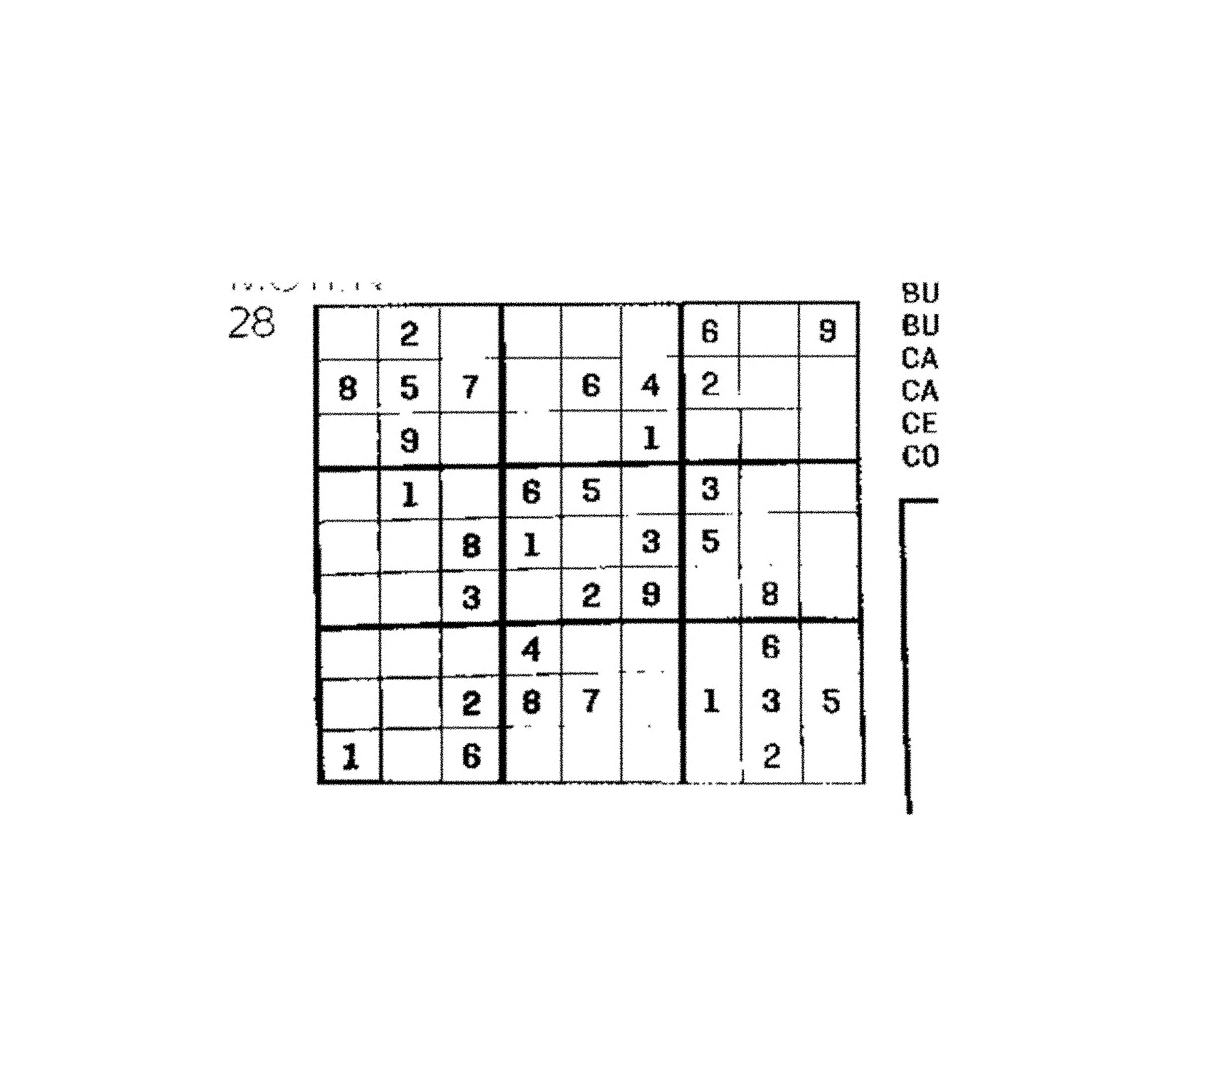
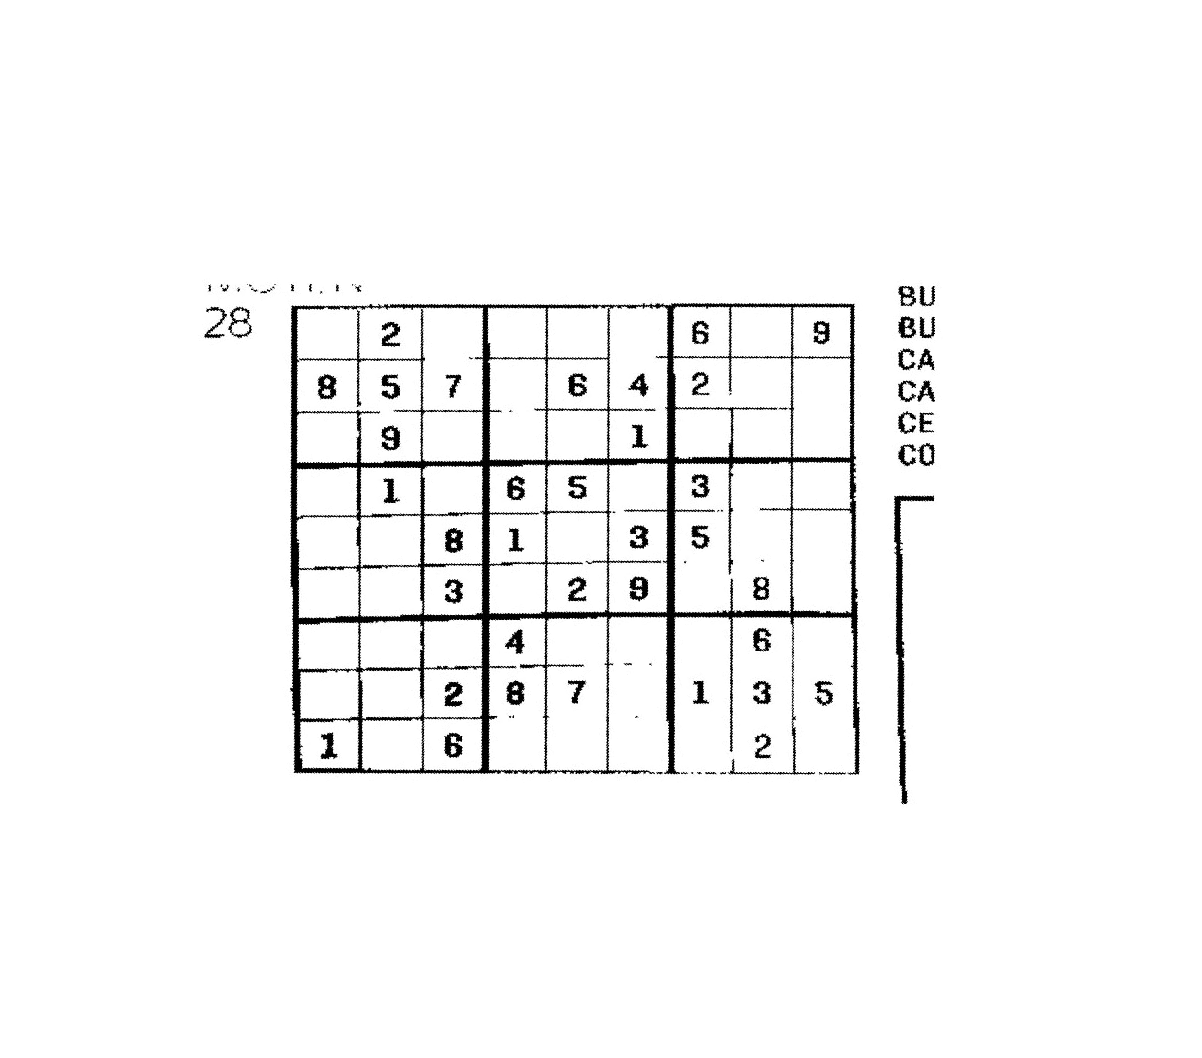
ta mère

Changed region(s): [[0.1847, 0.2495, 0.8003, 0.7486]]

diff --git a/Pretreat/grayscale.c b/Pretreat/grayscale.c
@@ -1,70 +1,9 @@
 #include <err.h>
 #include "SDL/SDL.h"
 #include "SDL/SDL_image.h"
-#include "pixel_operations.h"
+#include "../tool/pixel_operations.h"
+#include "../tool/tool_image.h"
 #include "tresholding.h"
-
-void init_sdl()
-{
-    // Init only the video part.
-    // If it fails, die with an error message.
-    if(SDL_Init(SDL_INIT_VIDEO) == -1)
-        errx(1,"Could not initialize SDL: %s.\n", SDL_GetError());
-}
-
-SDL_Surface* display_image(SDL_Surface *img)
-{
-    SDL_Surface *screen;
-
-    // Set the window to the same size as the image
-    screen = SDL_SetVideoMode(img->w, img->h, 0, SDL_SWSURFACE|SDL_ANYFORMAT);
-    if (screen == NULL)
-    {
-        // error management
-        errx(1, "Couldn't set %dx%d video mode: %s\n",
-                img->w, img->h, SDL_GetError());
-    }
-
-    // Blit onto the screen surface
-    if(SDL_BlitSurface(img, NULL, screen, NULL) < 0)
-        warnx("BlitSurface error: %s\n", SDL_GetError());
-
-    // Update the screen
-    SDL_UpdateRect(screen, 0, 0, img->w, img->h);
-
-    // return the screen for further uses
-    return screen;
-}
-
-SDL_Surface* load_image(char *path)
-{
-    SDL_Surface *img;
-
-    // Load an image using SDL_image with format detection.
-    // If it fails, die with an error message.
-    img = IMG_Load(path);
-    if (!img)
-        errx(3, "can't load %s: %s", path, IMG_GetError());
-
-    return img;
-}
-
-void wait_for_keypressed()
-{
-    SDL_Event event;
-
-    // Wait for a key to be down.
-    do
-    {
-        SDL_PollEvent(&event);
-    } while(event.type != SDL_KEYDOWN);
-
-    // Wait for a key to be up.
-    do
-    {
-        SDL_PollEvent(&event);
-    } while(event.type != SDL_KEYUP);
-}
 
 void SDL_FreeSurface(SDL_Surface *surface);
 

diff --git a/rotationAuto/main.c b/rotationAuto/main.c
@@ -11,13 +11,19 @@
 #include "../tool/pixel_operations.h"
 #include "rotationAuto.h"
 
-int main()                                                                      
+int main(int argc, char** argv)                                                                      
 {                                                                               
   /*                                                                            
     param : RotAndCut(name, sens);                                              
     sens = 1  : left rotation                                                   
     sens = -1 : right rotation                                                  
-  */                                                                            
-                                                                                
-  RotAndCut("image_torotate1.jpg", 1);                                         
-}    
+  */
+  if(argc >= 1)
+    {
+      if(!strcmp(argv[1], "1"))
+	RotAndCut("image_torotate1.jpg", 1);
+      
+      if(!strcmp(argv[1], "-1"))
+	RotAndCut("image_torotate2.jpg", -1);     
+    }    
+}

diff --git a/Run/run.c b/Run/run.c
@@ -22,13 +22,13 @@ void Run(char filename[])
   grayscale(filename); //Binarisation image
 
   
-  RotAndCut("image_bin.jpg",-1);
+  RotAndCut("image_torotate1.jpg",1);
   
   //int mat[9][9] = RecognizeDigit("Cases");
 
   typedef int Matrice[9][9];
 
-  Matrice mat2 =
+  /*Matrice mat2 =
     {
      {0,2,0,0,0,0,6,0,9},
      {8,5,7,0,6,4,2,0,0},
@@ -39,6 +39,19 @@ void Run(char filename[])
      {0,0,0,4,0,0,0,6,0},
      {0,0,2,8,7,0,1,3,5},
      {1,0,6,0,0,0,0,2,0},
+    };*/
+
+  Matrice mat3 =
+    {
+     {0,0,0,0,0,4,5,8,0},
+     {0,0,0,7,2,1,0,0,3},
+     {4,0,3,0,0,0,0,0,0},
+     {2,1,0,0,6,7,0,0,4},
+     {0,7,0,0,0,0,2,0,0},
+     {6,3,0,0,4,9,0,0,1},
+     {3,0,6,0,0,0,0,0,0},
+     {0,0,0,1,5,8,0,0,6},
+     {0,0,0,0,0,6,9,5,0},
     };
     
   /*
@@ -49,9 +62,9 @@ void Run(char filename[])
     }
   */
   
-  solve(mat2);
+  solve(mat3);
 
-  drawSudoku(mat2,"SudokuSolve",5);
+  drawSudoku(mat3,"SudokuSolve",8);
   
   
 }

diff --git a/GridCutout/griddetect.c b/GridCutout/griddetect.c
@@ -38,7 +38,7 @@ void MakeHisto(SDL_Surface* image, int hCols[], int hRows[])
 	      if(sum > max)
 		max = sum;
 	      sum = 0;
-	    }
+	      }
 	}
       if(max > (width / 4)) //Detection cols
 	  hCols[x] = max;
@@ -64,7 +64,7 @@ void MakeHisto(SDL_Surface* image, int hCols[], int hRows[])
 	      if(sum > max)
 		max = sum;
 	      sum = 0;
-	    }
+	      }
 	}
       if(max > (height / 4)) //Detection rows
 	hRows[y] = max;

diff --git a/Pretreat/tresholding.c b/Pretreat/tresholding.c
@@ -1,7 +1,7 @@
 #include <err.h>
 #include "SDL/SDL.h"
 #include "SDL/SDL_image.h"
-#include "pixel_operations.h"
+#include "../tool/pixel_operations.h"
 
 //Returns the histogram of the pixel values
 Uint8* histogram(SDL_Surface *img)

diff --git a/rotationAuto/rotationAuto.c b/rotationAuto/rotationAuto.c
@@ -31,6 +31,10 @@ void RotAndCut(char filename[], int sens)
   
   image = load_image(filename);
   image2 = image;
+
+  display_image(image);
+
+  wait_for_keypressed();
   
   int width = image->w;
   int height = image->h;

diff --git a/Pretreat/median.c b/Pretreat/median.c
@@ -1,5 +1,5 @@
 #include <SDL/SDL.h>
-#include "pixel_operations.h"
+#include "../tool/pixel_operations.h"
 
 void sGrayscale(Uint32 grayscale[], int i, int j)
 {
